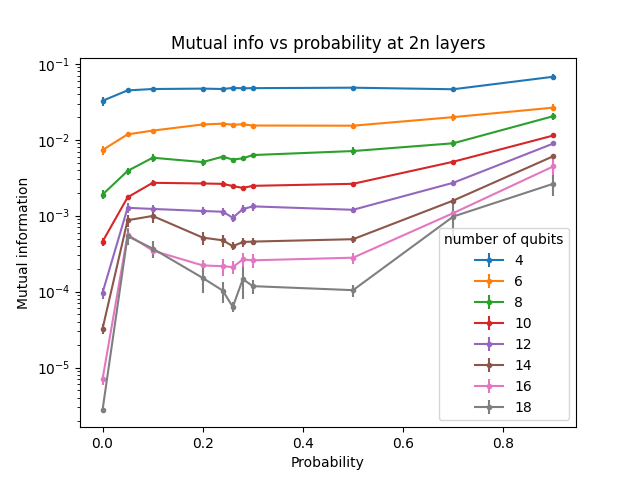
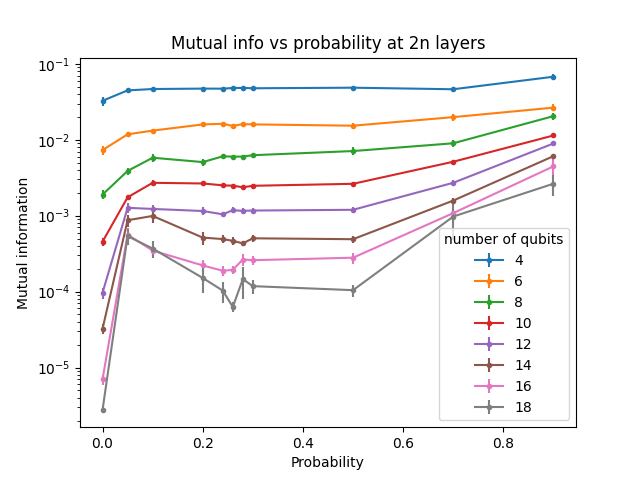
try plotting and saving many different layers

diff --git a/results/nap mutual samples/calc_and_plot_by_prob.py b/results/nap mutual samples/calc_and_plot_by_prob.py
@@ -19,28 +19,27 @@ if __name__ == "__main__":
     # results are in shape (num_qubits, num_prob,n_layers,2)
     results = np.load("aggregated_data.npy")
 
-    for i, n_qubits in enumerate(qubits):
+    for examined_layer in range(n_layers):
+        for i, n_qubits in enumerate(qubits):
 
-        results_for_each_p = []
-        er_each_p = []
+            results_for_each_p = []
+            er_each_p = []
 
-        examined_layer = 2*n_qubits
+            for j, p in enumerate(probs):
 
-        for j, p in enumerate(probs):
+                mean = results[i,j,:,0]
+                error = results[i,j,:,1]
+                
+                # Load your data based on n_qubits and p
+                results_for_each_p.append(mean[examined_layer])
+                er_each_p.append(error[examined_layer])
 
-            mean = results[i,j,:,0]
-            error = results[i,j,:,1]
-            
-            # Load your data based on n_qubits and p
-            results_for_each_p.append(mean[examined_layer])
-            er_each_p.append(error[examined_layer])
+            plt.errorbar(x=probs, y=results_for_each_p, yerr = er_each_p, label = f"{n_qubits}", marker='.')
 
-        plt.errorbar(x=probs, y=results_for_each_p, yerr = er_each_p, label = f"{n_qubits}", marker='.')
-
-    plt.xlabel("Probability")
-    plt.ylabel("Mutual information")
-    plt.legend(title="number of qubits")
-    plt.yscale('log') 
-    plt.title(f'Mutual info vs probability at 2n layers')
-    plt.savefig(f"probability_at_layer_2n.png")
-    plt.clf()
+        plt.xlabel("Probability")
+        plt.ylabel("Mutual information")
+        plt.legend(title="number of qubits")
+        plt.yscale('log') 
+        plt.title(f'Mutual info vs probability at {examined_layer} layers')
+        plt.savefig(f"examined_layer_images/probability_at_layer_{examined_layer}.png")
+        plt.clf()
